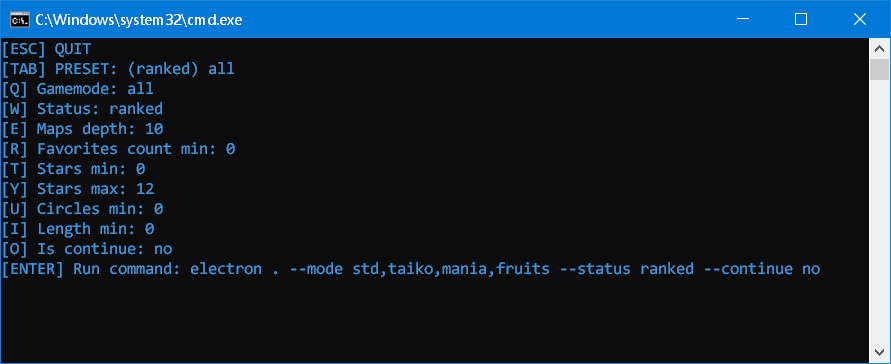
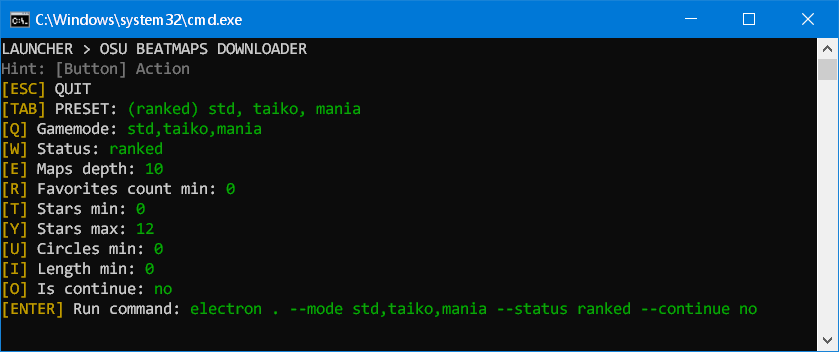
color

diff --git a/launcher.js b/launcher.js
@@ -2,6 +2,7 @@ const { execSync } = require('child_process');
 const defaults = require('./const_defaults.js');
 const keypress = require('keypress');
 const { readFileSync } = require('fs');
+const colors = require('colors');
 
 const menu_props = {
     preset: 1,
@@ -146,18 +147,20 @@ const command_build = () => {
 
 const refresh = () => {
     console.clear();
-    console.log(`[ESC] QUIT`);
-    console.log(`[TAB] PRESET: ${command_props.presets.variants[menu_props.preset].name}`);
-    console.log(`[Q] Gamemode: ${command_props.gamemode.variants[menu_props.gamemode].text}`);
-    console.log(`[W] Status: ${command_props.status.variants[menu_props.status].text}`);
-    console.log(`${enter_keys.maps_depth.enable?'> ':''}[E] Maps depth: ${enter_keys.maps_depth.text}${enter_keys.maps_depth.enable?'_':''}`);
-    console.log(`${enter_keys.fav_count_min.enable?'> ':''}[R] Favorites count min: ${enter_keys.fav_count_min.text}${enter_keys.fav_count_min.enable?'_':''}`);
-    console.log(`${enter_keys.stars_min.enable?'> ':''}[T] Stars min: ${enter_keys.stars_min.text}${enter_keys.stars_min.enable?'_':''}`);
-    console.log(`${enter_keys.stars_max.enable?'> ':''}[Y] Stars max: ${enter_keys.stars_max.text}${enter_keys.stars_max.enable?'_':''}`);
-    console.log(`${enter_keys.min_circles.enable?'> ':''}[U] Circles min: ${enter_keys.min_circles.text}${enter_keys.min_circles.enable?'_':''}`);
-    console.log(`${enter_keys.min_length.enable?'> ':''}[I] Length min: ${enter_keys.min_length.text}${enter_keys.min_length.enable?'_':''}`);
-    console.log(`[O] Is continue: ${command_props.is_continue.variants[menu_props.continue].text}`);
-    console.log(`[ENTER] Run command: ${command_build()}`)
+    console.log(`LAUNCHER > OSU BEATMAPS DOWNLOADER`.white);
+    console.log(`Hint: [Button] Action`.gray);
+    console.log(`[ESC]`.yellow,`QUIT`.white);
+    console.log(`[TAB]`.yellow, `PRESET:`.white, `${command_props.presets.variants[menu_props.preset].name}`.green);
+    console.log(`[Q]`.yellow, `Gamemode:`.white, `${command_props.gamemode.variants[menu_props.gamemode].text}`.green);
+    console.log(`[W]`.yellow, `Status:`.white, `${command_props.status.variants[menu_props.status].text}`.green);
+    console.log(`${enter_keys.maps_depth.enable?'> ':''}[E]`.yellow, `Maps depth:`.white, `${enter_keys.maps_depth.text.toString().green}${enter_keys.maps_depth.enable?'_':''}`);
+    console.log(`${enter_keys.fav_count_min.enable?'> ':''}[R]`.yellow, `Favorites count min:`.white, `${enter_keys.fav_count_min.text.toString().green}${enter_keys.fav_count_min.enable?'_':''}`);
+    console.log(`${enter_keys.stars_min.enable?'> ':''}[T]`.yellow, `Stars min:`.white, `${enter_keys.stars_min.text.toString().green}${enter_keys.stars_min.enable?'_':''}`);
+    console.log(`${enter_keys.stars_max.enable?'> ':''}[Y]`.yellow, `Stars max:`.white, `${enter_keys.stars_max.text.toString().green}${enter_keys.stars_max.enable?'_':''}`);
+    console.log(`${enter_keys.min_circles.enable?'> ':''}[U]`.yellow, `Circles min:`.white, `${enter_keys.min_circles.text.toString().green}${enter_keys.min_circles.enable?'_':''}`);
+    console.log(`${enter_keys.min_length.enable?'> ':''}[I]`.yellow, `Length min:`.white, `${enter_keys.min_length.text.toString().green}${enter_keys.min_length.enable?'_':''}`);
+    console.log(`[O]`.yellow, `Is continue:`.white, `${command_props.is_continue.variants[menu_props.continue].text}`.green);
+    console.log(`[ENTER]`.yellow, `Run command:`.white, `${command_build()}`.green)
 }
 
 const toggle_action_input = (key_name, action_name, ch, key) => {
